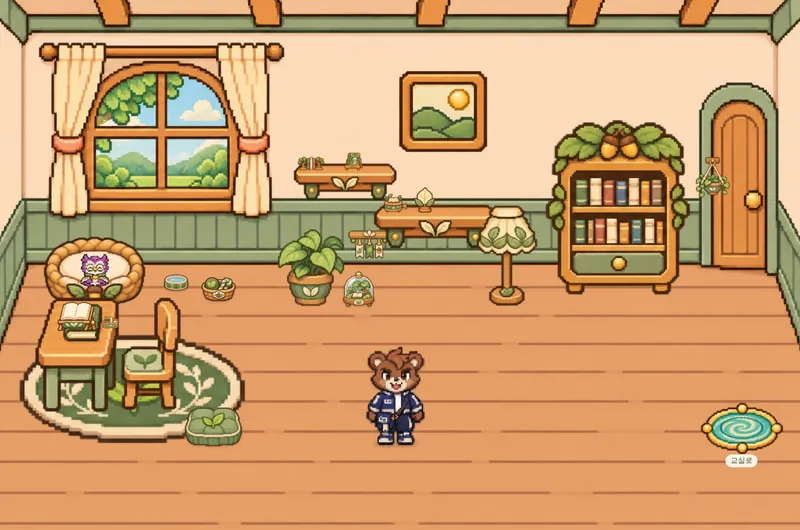
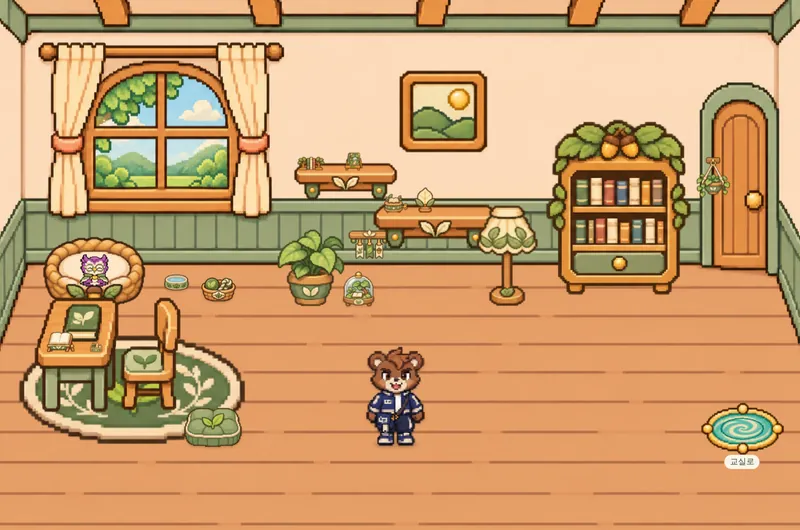
아지트: 책상 위 소품을 책상마다 윗면 안에 · 문패 글자를 문패 칸 안에 · 방석 펫의 흰 네모 걷기
- 책 받침대 · 필기구 정리함 · 탁상 달력의 자리를 책상마다 따로(HIDEOUT_TABLETOP). 예전 그림(v2) 기준의
  한 자리라 도트 책상에서는 윗면 뒤 가장자리에 한 줄로 걸리고 달력이 왼쪽 밖으로 삐져나왔으며, 테마 책상에
  그려진 책을 받침대가 덮었음. 기본 책상은 받침대 가운데 뒤 · 달력 앞 왼쪽 · 정리함 앞 오른쪽, 테마 책상은
  달력이 책 왼쪽 · 받침대 앞 왼쪽 · 정리함 앞 오른쪽. 앞의 소품이 뒤의 소품을 가리게 겹침 차례도 바닥 높이로.
- 문패 글자: 크기를 화면 폭(vw)이 아니라 장면 단위로, 문패 그림마다 잰 크림색 칸 안에서 '○○의 아지트' 한 줄 ·
  '○○의 / 아지트' 두 줄 가운데 큰 쪽(hideoutPlaqueLabel). 넘치면 줄마다 말줄임.
- 방석의 펫 단추에 .hideout button의 흰 바탕 · 테두리 · 여백이 걸려 펫 둘레에 흰 네모가 서던 것을 걷음.
- 시험: 다섯 책상 × 네 테마로 소품 바닥이 윗면 위 · 그려진 책 · 소품끼리 가리지 않음, 문패 띠가 크림색 칸 안
  (그림과 직접 견줌), 문패 글자 셈.
- 대문의 아지트 장면을 새 배치로 다시 찍음(1440 × 953).

Claude-Session: https://claude.ai/code/session_01C8MEnwKbSQD7jTHwr2vygZ

diff --git a/lib/readingHideout.js b/lib/readingHideout.js
@@ -94,8 +94,83 @@ export function validateHideoutLayout(layout, summary) {
 const CONTACT = new Set(["pet-water", "pet-toys", "terrarium", "travel-case", "cushion"]);
 const WALL = new Set(["wall", "clock", "memo-board", "bookmark-rack", "hanging-planter", "door-plaque"]);
 const TABLE = new Set(["bookstand", "pencil-caddy", "desk-calendar"]);
+
+// 책상 위 소품(책 받침대 · 필기구 정리함 · 탁상 달력)의 자리 — 책상마다 다릅니다(선생님 신고 · 2026년 11월).
+// x · y는 소품 그림의 바닥 가운데(장면 좌표), width는 그림 폭입니다. 카탈로그의 한 자리(예전 그림 v2의 넓고 낮은 윗면 기준)를
+// 그대로 쓰면, 윗면이 좁고 높이 들린 도트 책상에서 세 소품이 윗면 뒤 가장자리에 한 줄로 걸리고(달력은 왼쪽 밖으로 삐져나옴)
+// 테마 책상 넷은 가운데에 그려진 책을 받침대가 덮었습니다.
+//   · 기본 책상(책 없음) — 받침대는 가운데 뒤, 달력은 앞 왼쪽, 필기구 정리함은 앞 오른쪽.
+//   · 테마 책상(가운데에 책) — 달력은 책 왼쪽, 받침대는 앞 왼쪽, 필기구 정리함은 앞 오른쪽(그려진 책을 가리지 않게).
+// 책상 그림을 바꾸면 이 숫자도 다시 재세요 — tests/unit/plazaArtFit.test.mjs가 소품 바닥이 윗면 위에 있는지 ·
+// 그려진 책을 가리지 않는지 · 소품끼리 가리지 않는지를 그림과 직접 견줍니다.
+const THEME_DESK_TOP = Object.freeze({
+  "desk-calendar": Object.freeze({ x: 117, y: 640, width: 24 }),
+  bookstand: Object.freeze({ x: 127, y: 676, width: 52 }),
+  "pencil-caddy": Object.freeze({ x: 194, y: 676, width: 24 }),
+});
+export const HIDEOUT_TABLETOP = Object.freeze({
+  "desk-basic": Object.freeze({
+    bookstand: Object.freeze({ x: 166, y: 640, width: 60 }),
+    "desk-calendar": Object.freeze({ x: 112, y: 676, width: 26 }),
+    "pencil-caddy": Object.freeze({ x: 196, y: 678, width: 26 }),
+  }),
+  "desk-forest": THEME_DESK_TOP,
+  "desk-starlight": THEME_DESK_TOP,
+  "desk-coastal": THEME_DESK_TOP,
+  // 탐험 책상은 그려진 책이 윗면 앞까지 닿아(앞쪽 띠가 없음) 소품을 조금 작게 둡니다.
+  "desk-explorer": Object.freeze({
+    "desk-calendar": Object.freeze({ x: 125, y: 632, width: 20 }),
+    bookstand: Object.freeze({ x: 127, y: 669, width: 48 }),
+    "pencil-caddy": Object.freeze({ x: 200, y: 669, width: 22 }),
+  }),
+});
+// 책상(z 890)보다 위, 책상 앞에 선 캐릭터(z 953 이상 — 걷는 길이 책상 앞 y 853부터)보다 아래.
+// 그 안에서는 앞에 놓인(바닥이 아래인) 소품이 뒤의 소품을 가립니다.
+const tabletopZ = (y) => 900 + Math.round((y - 600) / 2);
+
+// 문패 글자 칸 — 그림마다 크림색 칸의 위 · 아래(그림 높이의 비율)와, 장식(잎 · 별 · 나침반 · 조개)이 파고들지 않는
+// 가로 띠(그림 폭의 비율)입니다. one은 칸 높이의 가운데 50%(한 줄)에서, two는 가운데 88%(두 줄)에서 잰 띠입니다.
+// 그 높이 몫(share)과 줄 간격(lineHeight)은 아래 HIDEOUT_PLAQUE_FONT — 띠를 다시 재면 몫도 함께 맞추세요(시험이 그림과 견줌).
+const PLAQUE_PANELS = Object.freeze({
+  forest: Object.freeze({ top: 0.289, bottom: 0.777, one: [0.162, 0.768], two: [0.252, 0.708] }),
+  starlight: Object.freeze({ top: 0.256, bottom: 0.785, one: [0.168, 0.8], two: [0.224, 0.72] }),
+  explorer: Object.freeze({ top: 0.315, bottom: 0.794, one: [0.204, 0.719], two: [0.281, 0.679] }),
+  coastal: Object.freeze({ top: 0.293, bottom: 0.832, one: [0.139, 0.762], two: [0.222, 0.649] }),
+});
+export const HIDEOUT_PLAQUE_PANELS = PLAQUE_PANELS;
+// 글자 크기(장면 단위) · 줄 간격 — lineHeight는 hideout.css의 .hideout-plaque-label line-height와 같아야 합니다.
+export const HIDEOUT_PLAQUE_FONT = Object.freeze({ max: 15, min: 6, lineHeight: 1.06, share: Object.freeze({ one: 0.5, two: 0.88 }) });
+// 글자 폭 어림(글자 크기의 몇 배) — 한글 · 그 밖의 글자 1, 띄어쓰기 0.32, 영어 · 숫자 0.62. 실제 글꼴(Pretendard 등)보다
+// 조금 넉넉히 잡아, 어림이 빗나가도 칸을 넘지 않게 합니다(화면은 넘치면 말줄임 — 안전망).
+export function hideoutPlaqueTextEm(text) {
+  return [...String(text ?? "")].reduce((sum, ch) => sum + (ch === " " ? 0.32 : /[!-~]/.test(ch) ? 0.62 : 1), 0);
+}
+// 문패에 쓸 글자와 자리(장면 좌표) — '○○의 아지트'를 한 줄로, 또는 '○○의' / '아지트' 두 줄로 쓰되 글자가 더 크게
+// 들어가는 쪽을 고릅니다(선생님 신고 · 2026년 11월 — 한때 글자 크기를 화면 폭(vw)에 맞춰, 그림이 작게 보이는 화면에서는
+// '선생님의 아지트'가 문패 밖으로 넘쳤습니다). 크기는 장면 단위라 화면에서는 --hideout-unit을 곱해 그림과 함께 커지고 작아집니다.
+export function hideoutPlaqueLabel(prop, owner) {
+  const panel = PLAQUE_PANELS[prop?.theme] ?? PLAQUE_PANELS.forest;
+  const name = String(owner ?? "").trim() || "나";
+  const left = prop.x - prop.width / 2, top = prop.y - prop.height;
+  const panelHeight = (panel.bottom - panel.top) * prop.height;
+  const y = top + (panel.top + panel.bottom) / 2 * prop.height;
+  const fit = (lines, [l, r], share) => {
+    const width = (r - l) * prop.width;
+    const widest = Math.max(...lines.map(hideoutPlaqueTextEm));
+    const fontSize = Math.min(HIDEOUT_PLAQUE_FONT.max, width * 0.94 / widest,
+      panelHeight * share / (lines.length * HIDEOUT_PLAQUE_FONT.lineHeight));
+    return { lines, x: left + (l + r) / 2 * prop.width, y, width, fontSize };
+  };
+  const one = fit([`${name}의 아지트`], panel.one, HIDEOUT_PLAQUE_FONT.share.one);
+  const two = fit([`${name}의`, "아지트"], panel.two, HIDEOUT_PLAQUE_FONT.share.two);
+  const best = two.fontSize > one.fontSize * 1.05 ? two : one;
+  return { ...best, fontSize: Math.max(HIDEOUT_PLAQUE_FONT.min, Math.floor(best.fontSize * 10) / 10) };
+}
+
 export function hideoutSceneProps(layout) {
   const selected = plain(layout) ? layout : HIDEOUT_DEFAULT_LAYOUT;
+  const deskItem = BY_ID.get(selected.desk);
+  const tabletop = HIDEOUT_TABLETOP[deskItem?.slot === "desk" ? deskItem.id : "desk-basic"] ?? HIDEOUT_TABLETOP["desk-basic"];
   const shelfItem = BY_ID.get(selected["wall-shelf"]) ?? BY_ID.get("wall-shelf-basic");
   const shelf = SHELVES.get(shelfItem.theme === "basic" ? "forest" : shelfItem.theme);
   const surfaces = {};
@@ -111,7 +186,7 @@ export function hideoutSceneProps(layout) {
     if (slot.id === "wall-shelf") continue;
     const entry = BY_ID.get(selected[slot.id]);
     if (!entry || entry.slot !== slot.id) continue;
-    const position = { ...HIDEOUT_CATALOG_DATA.slots[slot.id] };
+    const position = { ...HIDEOUT_CATALOG_DATA.slots[slot.id], ...(TABLE.has(slot.id) ? tabletop[slot.id] : null) };
     if (slot.id === "lamp") position.width = Math.min(120, 280 * entry.width / entry.height);
     if (position.support) position.y = surfaces[position.support] + 0.5;
     const height = position.width * entry.height / entry.width;
@@ -121,7 +196,7 @@ export function hideoutSceneProps(layout) {
     if (slot.id === "garland") z = 10;
     if (slot.id === "rug") z = 0;
     if (position.support) z = 20;
-    if (TABLE.has(slot.id)) z = 925;
+    if (TABLE.has(slot.id)) z = tabletopZ(position.y);
     props.push({ ...entry, ...position, id: entry.id, itemId: entry.id, category: slot.id, height, z, contactShadow: CONTACT.has(slot.id) });
   }
   return [...props, ...ledges];

diff --git a/components/reading/hideout.css b/components/reading/hideout.css
@@ -25,16 +25,23 @@
 .hideout-background { display: block; width: 100%; height: 100%; pointer-events: none; }
 .hideout-prop { position: absolute; height: auto; max-width: none; transform: translate(-50%, -100%); pointer-events: none; }
 .hideout-prop.is-grounded { filter: drop-shadow(0 calc(var(--hideout-unit, 1px) * 3) calc(var(--hideout-unit, 1px) * 2) #50301838); }
-.hideout-plaque-label { position: absolute; transform: translate(-50%, -50%); z-index: 6; font-size: clamp(5px, .7vw, 10px); white-space: nowrap; color: #725f43; pointer-events: none; }
+/* 문패 글자 — 자리 · 폭 · 크기는 hideoutPlaqueLabel이 문패의 크림색 칸에 맞춰 정합니다(글자 크기를 화면 폭 vw로 정하던 때는
+   그림이 작게 보이는 화면에서 '선생님의 아지트'가 문패 밖으로 넘쳤음). 어림이 빗나가도 칸을 넘지 않게 줄마다 말줄임.
+   line-height는 lib/readingHideout.js의 HIDEOUT_PLAQUE_FONT.lineHeight와 같아야 합니다(글자 크기를 그 값으로 셈). */
+.hideout-plaque-label { position: absolute; transform: translate(-50%, -50%); z-index: 6; display: flex; flex-direction: column; align-items: center;
+  line-height: 1.06; font-weight: 700; letter-spacing: -0.02em; color: #6b5233; text-align: center; pointer-events: none; }
+.hideout-plaque-label > span { max-width: 100%; overflow: hidden; text-overflow: ellipsis; white-space: nowrap; }
 .hideout-resident { position: absolute; width: 0; height: 0; pointer-events: none; }
 .hideout-resident .plaza-sprite { max-width: none; }
 .hideout-character-fallback { position: absolute; object-fit: contain; max-width: none; }
 .hideout-resident-shadow { position: absolute; transform: translate(-50%, -50%); border-radius: 50%; background: #4b39212b; filter: blur(2px); }
 .hideout-resident-name { position: absolute; left: 0; transform: translateX(-50%); border: 1px solid #ece7d5; border-radius: 20px; padding: 1px 7px; background: #fffdf4ee; color: #625c47; font-size: clamp(8px, .8vw, 11px); line-height: 1.4; font-weight: 650; white-space: nowrap; }
-/* 방석의 펫 — 누르면 펫 정보 창(단추 · 선생님 요청). 단추의 바탕 · 테두리를 걷고, 마우스를 올리면 살짝 떠오릅니다 */
-.hideout-pet { position: absolute; transform: translate(-50%, -50%); padding: 0; border: 0; background: none; cursor: pointer; border-radius: 12px; }
-.hideout-pet:hover { filter: drop-shadow(0 0 3px rgba(255, 244, 214, .95)) drop-shadow(0 2px 4px rgba(64, 45, 30, .35)); }
-.hideout-pet:focus-visible { outline: 3px solid var(--primary, #e08a5f); outline-offset: 2px; }
+/* 방석의 펫 — 누르면 펫 정보 창(단추 · 선생님 요청). 단추의 바탕 · 테두리를 걷고, 마우스를 올리면 살짝 떠오릅니다.
+   선택자를 `.hideout .hideout-pet`로 두세요 — 위의 `.hideout button`(흰 바탕 · 테두리 · 안쪽 여백 · 최소 높이 44px)이
+   `.hideout-pet` 하나보다 세서, 한때 방석의 펫 둘레에 흰 네모가 서고 펫이 그만큼 작아졌습니다. */
+.hideout .hideout-pet { position: absolute; transform: translate(-50%, -50%); min-height: 0; padding: 0; border: 0; background: none; cursor: pointer; border-radius: 12px; }
+.hideout .hideout-pet:hover:not(:disabled) { background: none; filter: drop-shadow(0 0 3px rgba(255, 244, 214, .95)) drop-shadow(0 2px 4px rgba(64, 45, 30, .35)); }
+.hideout .hideout-pet:focus-visible { outline: 3px solid var(--primary, #e08a5f); outline-offset: 2px; }
 .hideout-pet > img { width: 100%; height: 100%; display: block; object-fit: contain; image-rendering: pixelated; }
 .hideout-pet .pet-figure { width: 100% !important; height: 100% !important; }
 .hideout-pet .pet-figure > img, .hideout-pet .pet-egg { width: 100%; height: 100%; object-fit: contain; }

diff --git a/components/reading/ReadingHideout.jsx b/components/reading/ReadingHideout.jsx
@@ -3,7 +3,7 @@
 import { useCallback, useEffect, useId, useMemo, useRef, useState } from "react";
 import {
   HIDEOUT_DEFAULT_LAYOUT, HIDEOUT_ITEMS, HIDEOUT_OCCUPANTS, HIDEOUT_SCENE, HIDEOUT_SLOTS,
-  hideoutSceneProps, isHideoutItemUnlocked, normalizeHideoutRoom,
+  hideoutPlaqueLabel, hideoutSceneProps, isHideoutItemUnlocked, normalizeHideoutRoom,
 } from "@/lib/readingHideout";
 import {
   HIDEOUT_RETURN_PORTAL, createHideoutWalkMap, hideoutAtReturnPortal,
@@ -295,7 +295,14 @@ function HideoutRoom({ classId, user, student = null, viewUid, summary, readOnly
       {props.map((prop) => <img key={prop.id} src={prop.src} className={`hideout-prop${prop.contactShadow ? " is-grounded" : ""}`}
         data-hideout-slot={prop.category || prop.slot} data-hideout-item={prop.itemId || prop.id} alt="" draggable={false}
         style={{ ...place(prop.x, prop.y, prop.width), zIndex: prop.z }} />)}
-      {props.filter((prop) => prop.category === "door-plaque").map((prop) => <span key={`${prop.id}-label`} className="hideout-plaque-label" style={{ left: `${prop.x / HIDEOUT_SCENE.width * 100}%`, top: `${(prop.y - prop.height * .46) / HIDEOUT_SCENE.height * 100}%` }}>{myName}의 아지트</span>)}
+      {/* 문패 글자는 문패의 크림색 칸 안에만 — 크기는 장면 단위(그림과 함께 커지고 작아짐), 한 줄 · 두 줄 가운데 큰 쪽(hideoutPlaqueLabel) */}
+      {props.filter((prop) => prop.category === "door-plaque").map((prop) => {
+        const label = hideoutPlaqueLabel(prop, myName);
+        return <span key={`${prop.id}-label`} className="hideout-plaque-label" style={{
+          left: `${label.x / HIDEOUT_SCENE.width * 100}%`, top: `${label.y / HIDEOUT_SCENE.height * 100}%`,
+          width: `${label.width / HIDEOUT_SCENE.width * 100}%`, fontSize: `calc(var(--hideout-unit, 1px) * ${label.fontSize})`,
+        }}>{label.lines.map((line) => <span key={line}>{line}</span>)}</span>;
+      })}
       {/* 그림 상자와 누르는 단추(보이는 포털 크기 — portal.hit)를 따로 둡니다: 단추가 그림 상자만 하면 포털 옆의 빈 바닥을 눌러도 포털로 걸어갑니다 */}
       {onExit && !readOnly && <div className="hideout-return-portal-art" aria-hidden="true" style={{ ...place(portal.x, portal.y, portal.width), aspectRatio: `${portal.width}/${portal.height}` }}>
         <img src={portal.src} alt="" draggable={false} /><img className="hideout-portal-swirl" src={portal.swirl} alt="" draggable={false} />

diff --git a/lib/landingScenes.js b/lib/landingScenes.js
@@ -23,7 +23,7 @@ export const LANDING_SCENES = Object.freeze([
     alt: "교실 — 출석부가 붙은 칠판 앞에 선생님 캐릭터가 서 있고, 학생 캐릭터 열다섯 명이 펫을 곁에 두고 책상에 앉아 있는 장면",
   }),
   Object.freeze({
-    key: "hideout", name: "개인 아지트", width: 1440, height: 954,
+    key: "hideout", name: "개인 아지트", width: 1440, height: 953,
     desc: "독서 레벨이 오를수록 열리는 소품으로 나만의 방을 꾸며요",
     alt: "개인 아지트 — 숲속 소품으로 꾸민 방에 학생 캐릭터가 서 있고, 펫이 방석에서 쉬는 장면",
   }),

diff --git a/HIDEOUT.md b/HIDEOUT.md
@@ -67,11 +67,20 @@
 
 1536×1024 장면 기준 책상 폭288, 러그432, 캐릭터 그림 칸252, 휴식 펫 그림 칸 최대120을 유지합니다. 보물함은 왼쪽 아래 `(145,970)`에 둡니다. 트로피는 폭72로 키우고, 오른쪽 전시 선반을 넓혀 주변 그림과 겹치지 않게 했습니다. 원형 러그는 수정 원화를 사용하며 세로만 늘이지 않습니다.
 
+**책상 위 소품(책 받침대 · 필기구 정리함 · 탁상 달력)은 책상마다 자리가 다릅니다**(선생님 신고 · 2026년 11월 — `lib/readingHideout.js`의 `HIDEOUT_TABLETOP`). 카탈로그의 한 자리는 예전 그림(v2)의 넓고 낮은 윗면에 맞춘 것이라, 윗면이 좁고 높이 들린 도트 책상에서는 세 소품이 윗면 뒤 가장자리에 한 줄로 걸리고(달력은 책상 왼쪽 밖으로 삐져나옴) 테마 책상 넷은 가운데에 그려진 책(잎 · 별 · 나침반 · 조개)을 받침대가 덮었습니다.
+- 기본 책상(책 없음) — 받침대는 가운데 뒤, 달력은 앞 왼쪽, 필기구 정리함은 앞 오른쪽.
+- 테마 책상 — 달력은 그려진 책 왼쪽, 받침대는 앞 왼쪽, 필기구 정리함은 앞 오른쪽(그려진 책을 가리지 않게). 탐험 책상은 책이 윗면 앞까지 닿고 앞 모서리에 쇠 장식이 있어 소품을 조금 작게, 책 바로 앞에 둡니다.
+- 앞에 놓인(바닥이 아래인) 소품이 뒤의 소품을 가리고, 모두 책상보다 위 · 책상 앞에 선 캐릭터보다 아래 층입니다(z 900~950).
+- **카탈로그의 한 자리로 되돌리지 마세요.** 책상 그림을 바꾸면 숫자를 다시 재세요 — `tests/unit/plazaArtFit.test.mjs`가 소품 바닥이 그 책상의 윗면 위인지(빈 곳 · 검은 테두리가 아님) · 그려진 책을 15% 넘게 가리거나 책 가운데를 덮지 않는지 · 소품끼리 15% 넘게 가리지 않는지를 다섯 책상 × 네 테마로 그림과 직접 견줍니다.
+- 실측(체험반 1440px): 다섯 책상 모두 소품이 윗면 안 · 테마 책상의 그려진 책이 보임.
+
+**문패 글자는 문패의 크림색 칸 안에만** 씁니다(선생님 신고 · 2026년 11월 — 한때 글자 크기를 화면 폭(vw)에 맞춰, 그림이 작게 보이는 화면에서 '선생님의 아지트'가 문패 밖으로 넘쳤습니다). 글자 크기는 장면 단위라 그림과 함께 커지고 작아지며(`--hideout-unit`), '○○의 아지트' 한 줄과 '○○의 / 아지트' 두 줄 가운데 글자가 더 크게 드는 쪽을 고릅니다(`hideoutPlaqueLabel` — 문패 그림마다 장식이 파고들지 않는 띠 `HIDEOUT_PLAQUE_PANELS`, 한 줄은 칸 높이의 가운데 50% · 두 줄은 88%). 줄 간격은 CSS와 셈이 같아야 합니다(`HIDEOUT_PLAQUE_FONT.lineHeight` 1.06). 아주 긴 이름은 가장 작은 크기에서 줄마다 말줄임으로 자릅니다. 문패가 작아 화면이 좁으면 글자도 작습니다 — 실측(체험반, '선생님의 / 아지트'): 1920px 화면 8.5px · 1440px 7.1px · 1280px 5.5px, 네 테마 모두 문패 안.
+
 작은 소품은 이름이 있는 목록에서 큰 그림으로 볼 수 있습니다. 상세 창의 **이전 · 다음**으로 같은 종류(러그 · 책상/의자 등)의 기본형과 네 테마를 연속으로 둘러봅니다. 끝에서는 처음으로, 처음에서는 끝으로 이어지며 현재 순서와 전체 개수를 표시합니다. 잠긴 소품은 이름과 그림 대신 물음표와 필요한 레벨을 유지합니다. 둘러보기만으로 배치가 바뀌지 않고 **방에 놓기**를 눌러야 미리보기에 적용됩니다. 교사가 학생 방을 열람할 때는 둘러보기만 가능합니다. 키보드와 터치로 선택하고, 확대 창을 닫으면 처음 누른 썸네일에 초점을 돌려줍니다. 펫은 종별 휴식 그림이 방석 안에 들어가도록 배치합니다. 1단계 알은 같은 공통 그림을 사용합니다.
 
 **펫 먹이**(관리자 설정의 '펫 먹이'를 켠 반 — `READING_GROWTH.md`의 '펫 먹이')와 함께 쓸 때: 먹이를 찾아 떠난 펫은 방석에도 없습니다(학생 본인의 방과 교사의 '아지트 보기' 둘 다 — `ReadingHideout`의 `petFeed`, 책 광장과 같은 판정 `lib/petCare.js`의 `careAway`). 돌아오면 다시 방석에서 쉽니다. 방 자체와 꾸미기는 펫 먹이와 무관합니다.
 
-**방석의 펫을 누르면 펫 정보 창이 뜹니다**(선생님 요청 — 책 광장 · 교실과 같은 창, `READING_GROWTH.md`의 '독서 펫' — 펫 정보 창). 쉬는 펫은 단추라 키보드(Tab · Enter)로도 엽니다. 학생 본인의 방에서는 '나의 펫'(경험치 · 펫 먹이를 켠 반이면 배부름과 먹이 주기 · 다시 부르기), 선생님의 '아지트 보기'에서는 그 학생의 펫을 **읽기만**(경험치 · 배부름 — 먹이 단추 없음) 보여 줍니다. 창이 떠 있는 동안은 방향키로 걷지 않고, 닫으면 무대로 초점이 돌아옵니다(학생 방). 펫이 자란 만큼 그리려면 방 주인의 누적 경험치가 필요해, 아지트 응답(`GET /api/reading/hideout` · 체험반 `fetchReadingHideout`)에 **`petGrowthXp`**(숫자 하나 — 책 · 글은 없음 · 선생님 본인의 방에는 없음)가 함께 옵니다. 선생님의 열람 화면에는 학생의 책 봄 요약이 없어, 한때 방석의 펫이 늘 2단계로 그려졌습니다(고침).
+**방석의 펫을 누르면 펫 정보 창이 뜹니다**(선생님 요청 — 책 광장 · 교실과 같은 창, `READING_GROWTH.md`의 '독서 펫' — 펫 정보 창). 쉬는 펫은 단추라 키보드(Tab · Enter)로도 엽니다. 학생 본인의 방에서는 '나의 펫'(경험치 · 펫 먹이를 켠 반이면 배부름과 먹이 주기 · 다시 부르기), 선생님의 '아지트 보기'에서는 그 학생의 펫을 **읽기만**(경험치 · 배부름 — 먹이 단추 없음) 보여 줍니다. 창이 떠 있는 동안은 방향키로 걷지 않고, 닫으면 무대로 초점이 돌아옵니다(학생 방). 펫이 자란 만큼 그리려면 방 주인의 누적 경험치가 필요해, 아지트 응답(`GET /api/reading/hideout` · 체험반 `fetchReadingHideout`)에 **`petGrowthXp`**(숫자 하나 — 책 · 글은 없음 · 선생님 본인의 방에는 없음)가 함께 옵니다. 선생님의 열람 화면에는 학생의 책 봄 요약이 없어, 한때 방석의 펫이 늘 2단계로 그려졌습니다(고침). **펫 단추에는 바탕 · 테두리가 없습니다** — 아지트 안 모든 단추에 흰 바탕 · 테두리 · 여백 · 최소 높이를 주는 `.hideout button`이 펫 단추에도 걸려, 한때 방석의 펫 둘레에 흰 네모가 서고 펫이 그만큼 작아졌습니다(고침 · 선택자는 `.hideout .hideout-pet`로 두세요).
 
 ## 배포와 확인
 

diff --git a/public/landing/README.md b/public/landing/README.md
@@ -4,10 +4,10 @@
 
 - `plaza.webp` · `plaza-800.webp` — 책 광장(1440 × 810 · 800 × 450). 분수 둘레에서 가상 친구 일곱이 펫과 거닐고, 둘은 이야기 중(머리 위 말풍선)이며, 가판대 · 책꽂이에 친구들의 책이 놓인 장면. 왼쪽 아래에 '교실로' · 오른쪽 위에 '나의 아지트로' 포털이 섭니다(광장 왼쪽 문은 없음).
 - `classroom.webp` · `classroom-800.webp` — 교실(1440 × 810 · 800 × 450). 선생님이 칠판 앞에 서고(칠판 오른쪽에 출석부), 학생 열다섯이 펫을 곁에 두고 제자리에 앉은 장면. 왼쪽 아래 '책 광장으로' · 오른쪽 아래 '나의 아지트로' 포털.
-- `hideout.webp` · `hideout-800.webp` — 개인 아지트(1440 × 954 · 800 × 530). 숲속 소품으로 꾸민 방에 학생 캐릭터가 서고 펫이 방석에서 쉬는 장면.
+- `hideout.webp` · `hideout-800.webp` — 개인 아지트(1440 × 953 · 800 × 530). 숲속 소품으로 꾸민 방에 학생 캐릭터가 서고 펫이 방석에서 쉬는 장면.
 - `landing-reading-800.webp`(800 × 351) — 일러스트 원본(1654 × 725)을 sharp로 줄인 것(`resize({ width: 800 }).webp({ quality: 82 })` · 34KiB). 원본을 바꾸면 함께 다시 만드세요.
 - 그림마다 **두 벌**입니다 — 화면이 칸 폭에 맞는 쪽만 내려받습니다(`srcset` · 1440 × 900 화면의 한 칸은 800px 쪽). 큰 그림 약 80~165KiB, 작은 그림 약 40~70KiB(WebP 품질 80).
-- **2026년 11월에 책 광장 · 교실을 다시 찍었습니다** — 광장 왼쪽 문이 사라지고 '나의 아지트로' 포털 · 교실 출석부가 생긴 뒤의 모습. 아지트는 그대로라(새로 찍어도 픽셀까지 같음) 그 전 그림입니다.
+- **2026년 11월에 책 광장 · 교실을 다시 찍었습니다** — 광장 왼쪽 문이 사라지고 '나의 아지트로' 포털 · 교실 출석부가 생긴 뒤의 모습. 아지트는 그 뒤 **책상 위 소품의 자리를 책상마다 맞춘 뒤(책 받침대 · 필기구 정리함이 숲속 책상에 그려진 책을 가리지 않게)** 다시 찍었습니다 — 그때 방석의 펫 둘레에 흰 네모가 서던 것(펫 단추의 바탕)도 함께 걷었습니다(`HIDEOUT.md`).
 - **실제 학생의 기록이 아닙니다** — 모두 체험반(데모 모드)의 가상 학생이고, 캐릭터 위 이름표 · 책상 이름표는 가리고 찍었습니다.
 
 ## 다시 찍는 법

diff --git a/public/reading-hideout/README.md b/public/reading-hideout/README.md
@@ -15,7 +15,7 @@ PNG 원본을 `scripts/import-pixel-art.mjs`로 **같은 이름 · 같은 크기
 
 승인된 책상·의자 폭288, 러그432, 캐릭터 프레임252, 펫 프레임 최대120을 유지합니다. 보물함은 왼쪽 아래의 `(145,970)`, 폭135입니다. 트로피는 폭72로 오른쪽 전시 선반에 올립니다. 작은 소품은 그림 속 픽셀만 누르게 하지 않고 큰 목록·상세에서 고릅니다.
 
-소품의 책·배지·달력은 장식입니다. 학생이 읽은 실제 책이나 획득 배지를 그 안에 합성한 그림은 아닙니다. 문패의 이름은 앱에서 별도 글자로 그립니다. 방 안 좌표와 미리보기는 서버에 저장하지 않고 선택한 소품 ID만 저장합니다.
+소품의 책·배지·달력은 장식입니다. 학생이 읽은 실제 책이나 획득 배지를 그 안에 합성한 그림은 아닙니다. 문패의 이름은 앱에서 별도 글자로, 문패 그림의 크림색 칸 안에 맞춰 그립니다(`HIDEOUT_PLAQUE_PANELS` — 문패 그림을 바꾸면 그 띠를 다시 재세요). 책상 위 소품(책 받침대 · 필기구 정리함 · 탁상 달력)의 자리는 책상마다 따로입니다(`lib/readingHideout.js`의 `HIDEOUT_TABLETOP` — 책상 그림을 바꾸면 다시 재세요, `HIDEOUT.md`). 방 안 좌표와 미리보기는 서버에 저장하지 않고 선택한 소품 ID만 저장합니다.
 
 카탈로그·고정 배치는 `lib/readingHideoutCatalog.js`, 공통 검증은 `lib/readingHideout.js`에 있습니다.
 
